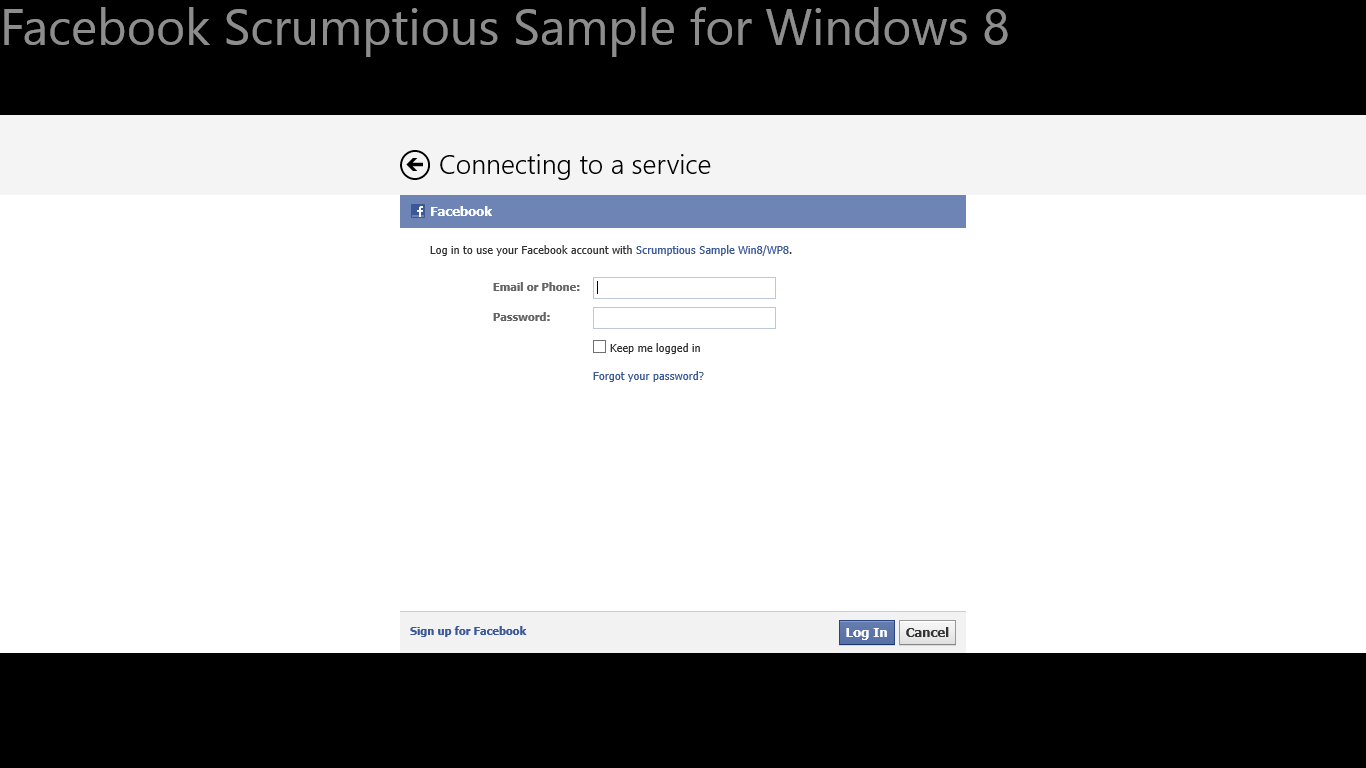
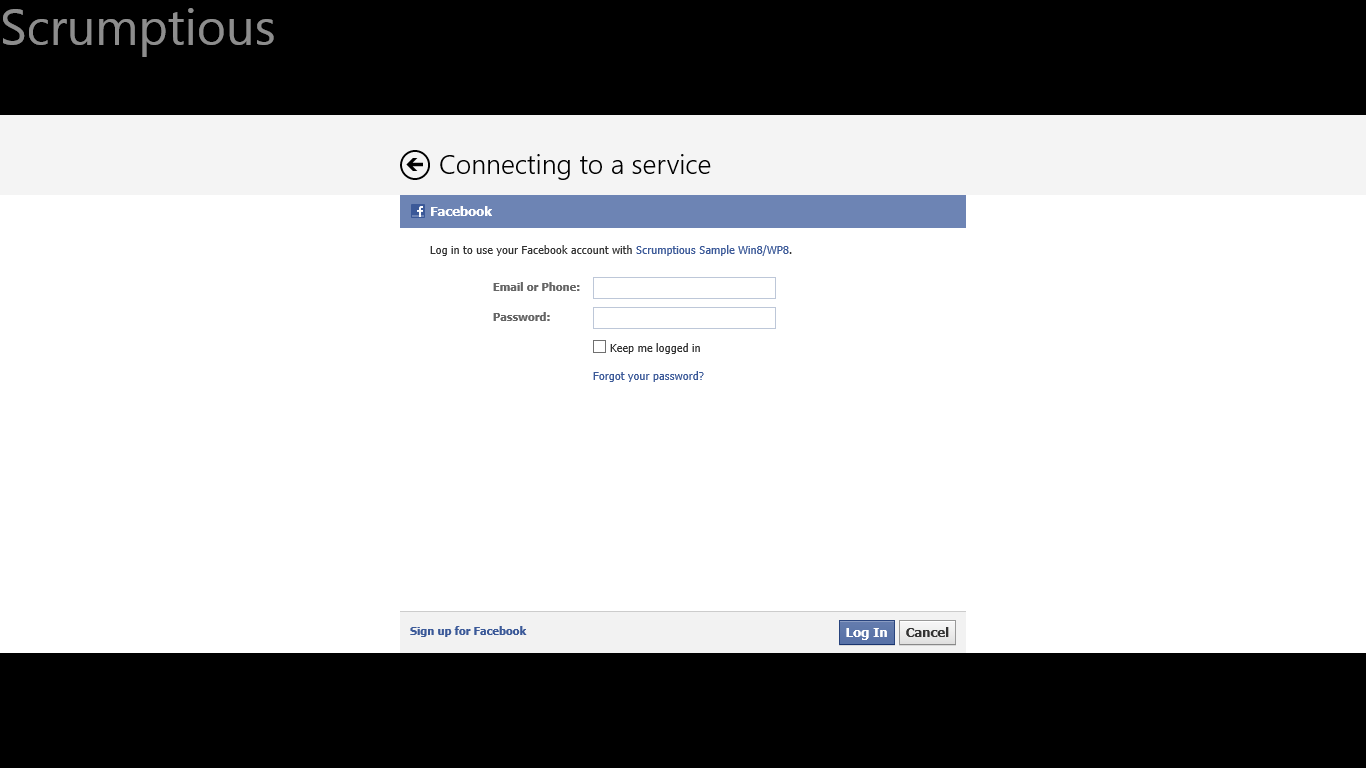
Updating screenshots for Win8

Changed region(s): [[0.0, 0.0, 0.7379, 0.0625]]

diff --git a/docs/phone/tutorial/index.md b/docs/phone/tutorial/index.md
@@ -230,7 +230,7 @@ At this point, if you compile the code, Visual Studio will complain that the nam
 
 at the top of the page if you know what library the symbols belong to. In future references, I will assume that you know how to resolve a reference.
 
-Make sure to resolve any missing dependencies as illustrated above to ensure that the code builds without errors. You should now be able to run the app and login to Facebook. You should also see the dialog to add extended permissions. When executed, your app should present you with the following dialogs. When you are successfully logged in, you should be navigated to a blank page - LandingPage.
+Make sure to resolve any missing dependencies as illustrated above to ensure that the code builds without errors. You should now be able to run the app and login to Facebook. When executed, your app should present you with the following dialogs. When you are successfully logged in, you should be navigated to a blank page - LandingPage.
 
 Login Page
 
